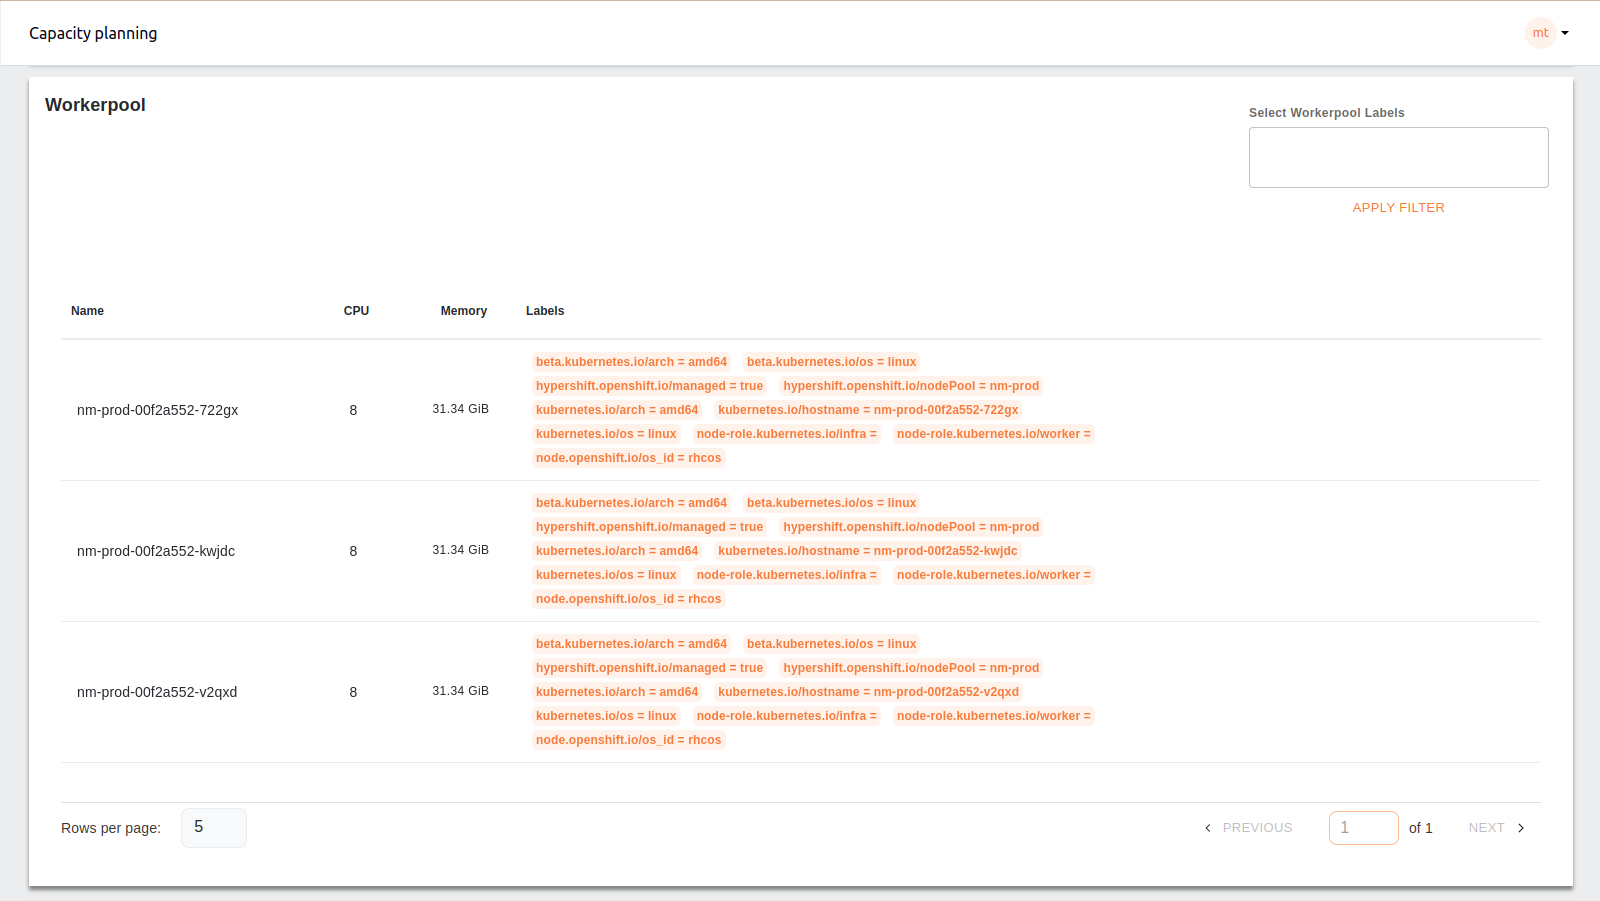
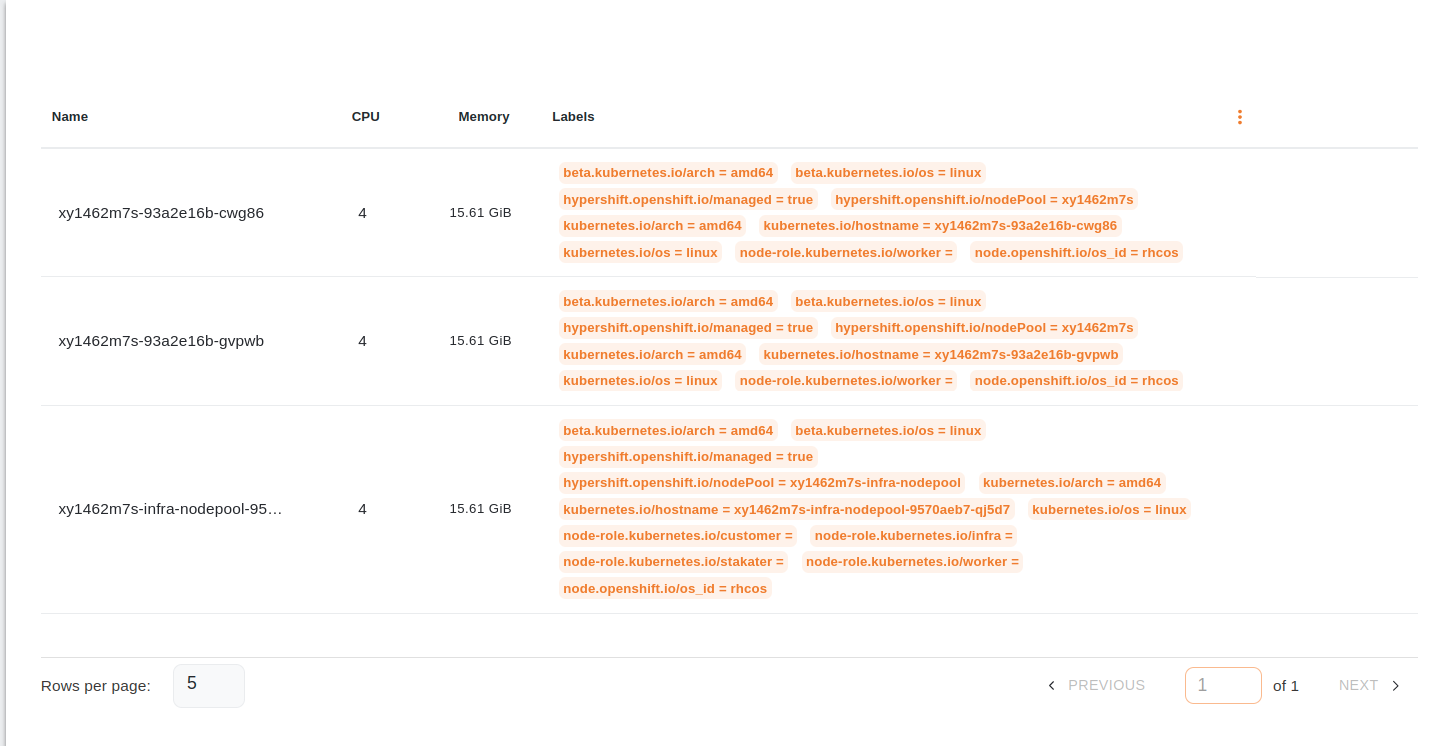
Changelog for v1.2.0

diff --git a/content/console/capacity-planning.md b/content/console/capacity-planning.md
@@ -4,11 +4,21 @@ The Capacity Planning feature in the app provides insights into resource usage a
 
 ## 1. Graphical Representation
 
-### a. Tenant Requests vs. Cluster Capacity
+### a. Node filtering based on Labels
+
+This part will allow users to group nodes based on their labels, to change how the data should be visualized for them.
+
+![node-filters](../images/node-filtering-capacity-planning.png)
+
+On clicking any of the node filters, the data in the next two parts will change accordingly.
+
+![selected-node-filters](../images/node-filtering-capacity-planning-selected.png)
+
+### b. Tenant Requests vs. Cluster Capacity
 
 This section displays bar charts that compare the current resource requests from tenants (like CPU and memory) with the total available cluster capacity. The charts visually represent how much of the cluster’s resources are currently being utilized versus what is available, helping identify over-utilization or under-utilization scenarios.
 
-### b. Quota Requests vs. Cluster Capacity
+### c. Quota Requests vs. Cluster Capacity
 
 Similar to the tenant requests, this section compares the quota requests against the total cluster capacity. It allows administrators to see if the quota assigned is in line with the cluster's actual capacity.
 
@@ -19,14 +29,6 @@ Similar to the tenant requests, this section compares the quota requests against
 A detailed table lists the worker nodes in the cluster, displaying each node’s CPU and memory capacity along with various labels that indicate the node’s configuration and role (e.g., worker, infra). This information helps in identifying resource distribution across nodes and managing workloads accordingly.
 
 ![worker-pool](../images/worker_pool.png)
-
-The worker-pool labels dropdown is used to filter the table data and graph based on the selected labels. If the selected label is common amongst the worker nodes, the filtered result is a list of all the worker nodes that contain the selected labels and update graph for filtered worker nodes.
-
-If the label is specific for any worker node, selecting the label will filter the specific worker nodes containing the label and update the graph based on the filtered results.
-
-To clear the filter you can remove applied labels and choose **Apply Filter** action. If no label is selected, it will ask you to **PROCEED** or **CANCEL**. If you choose to proceed the filters will be cleared returning the table and graph to default view.
-
-![worker-pool-filtered](../images/worker_pool_filtered.png)
 
 ## 3. Request Details
 

diff --git a/content/changelog.md b/content/changelog.md
@@ -1,5 +1,36 @@
 # Changelog
 
+## v1.2.x
+
+### v1.2.0
+
+- Newly released on Redhat OperatorHub for OpenShift 4.17 and 4.18 as well.
+
+#### Features
+
+- Added the option to select [Ingress class per tenant](./kubernetes-resources/tenant/tenant-overview.md#ingress) via Tenant CR
+- Added CRUD for [Quota](./console/quotas.md) and [Tenant](./console/tenants.md) CR via console.
+- Added support for [AWS CloudCosts integration in Opencost](./integrations/aws-pricing.md)
+- Added support for [node label filtering on Capacity Planning page](./console/capacity-planning.md)
+
+#### Enhancements
+
+- Addition of percentage column in Cost Analysis data for better insights.
+- Keycloak upgrade from `24.0.5` to `25.0.6`.
+- Minor dependencies upgrade.
+
+#### Pre-Upgrade Checklist
+
+Before upgrading to v1.2.0, perform the following steps:
+
+- Disable `console` in the integration config.
+
+#### Post-Upgrade Checklist
+
+- Enable `console` in the integration config. [Link](./installation/openshift.md#enabling-console)
+- Delete `PersistentVolumeClaim` named `postgresql-data-mto-postgresql-0` and Pod named `mto-postgresql-0` for keycloak to reconfigure itself on the newer version.
+- Delete all pods in `multi-tenant-operator` namespace having `controller` in their name so data can be populated into the console again.
+
 ## v1.1.x
 
 ### v1.1.0
